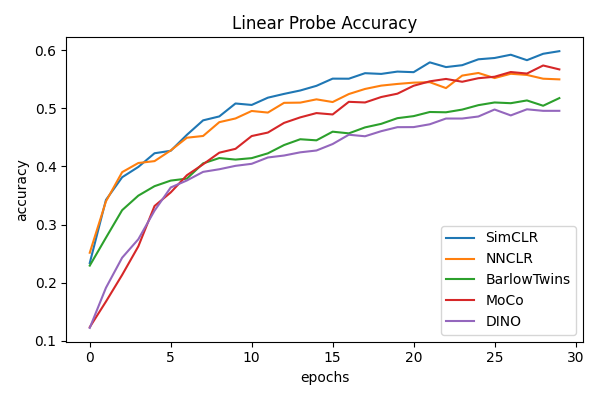
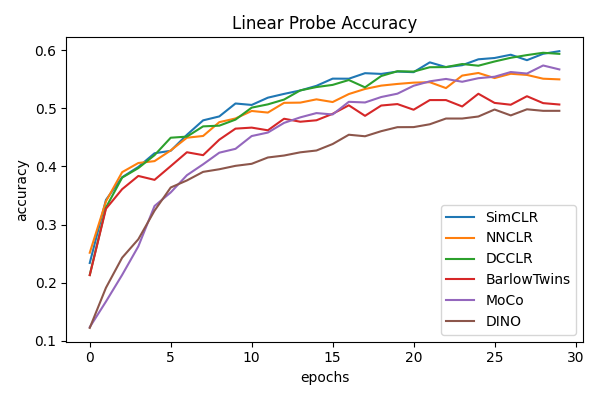
DCCLR added

diff --git a/algorithms.py b/algorithms.py
@@ -122,6 +122,56 @@ class NNCLR(ContrastiveModel):
         return loss
 
 
+class DCCLR(ContrastiveModel):
+    def __init__(
+        self,
+        contrastive_augmenter,
+        classification_augmenter,
+        encoder,
+        projection_head,
+        linear_probe,
+        temperature,
+    ):
+        super().__init__(
+            contrastive_augmenter,
+            classification_augmenter,
+            encoder,
+            projection_head,
+            linear_probe,
+        )
+        self.temperature = temperature
+
+    def contrastive_loss(self, projections_1, projections_2):
+        # a modified InfoNCE loss, which should provide better performance at
+        # lower batch sizes
+
+        # cosine similarity: the dot product of the l2-normalized feature vectors
+        projections_1 = tf.math.l2_normalize(projections_1, axis=1)
+        projections_2 = tf.math.l2_normalize(projections_2, axis=1)
+        similarities = (
+            tf.matmul(projections_1, projections_2, transpose_b=True) / self.temperature
+        )
+
+        # the similarities of the positives (the main diagonal) are masked and
+        # are not included in the softmax normalization
+        batch_size = tf.shape(projections_1)[0]
+        decoupling_mask = 1.0 - tf.eye(batch_size)
+        decoupled_similarities = decoupling_mask * tf.exp(similarities)
+
+        loss = tf.reduce_mean(
+            -tf.linalg.diag_part(similarities)
+            + tf.math.log(
+                tf.reduce_sum(decoupled_similarities, axis=0)
+                + tf.reduce_sum(decoupled_similarities, axis=1)
+            )
+        )
+        # the sum along the two axes should be put in separate log-sum-exp
+        # expressions according to the paper, this however achieves slightly
+        # higher performance at this scale
+
+        return loss
+
+
 class BarlowTwins(ContrastiveModel):
     def __init__(
         self,

diff --git a/train.py b/train.py
@@ -10,7 +10,7 @@ from tensorflow.keras.layers.experimental import preprocessing
 
 from dataset import prepare_dataset
 from augmentations import RandomResizedCrop, RandomColorJitter
-from algorithms import SimCLR, NNCLR, BarlowTwins, MoCo, DINO
+from algorithms import SimCLR, NNCLR, DCCLR, BarlowTwins, MoCo, DINO
 
 tf.get_logger().setLevel("WARN")  # suppress info-level logs
 
@@ -23,6 +23,7 @@ width = 128
 hyperparams = {
     SimCLR: {"temperature": 0.1},
     NNCLR: {"temperature": 0.1, "queue_size": 10000},
+    DCCLR: {"temperature": 0.1},
     BarlowTwins: {"redundancy_reduction_weight": 10.0},
     MoCo: {"momentum_coeff": 0.99, "temperature": 0.1, "queue_size": 10000},
     DINO: {"momentum_coeff": 0.9, "temperature": 0.1, "sharpening": 0.5},

diff --git a/README.md b/README.md
@@ -1,10 +1,11 @@
 # Self-supervised Contrastive Learning for Image Classification with Keras
 
-This repository contains an implementation for 4 self-supervised instance-level (image-level) contrastive learning methods:
+This repository contains an implementation for 6 self-supervised instance-level (image-level) contrastive learning methods:
 - [SimCLR](https://arxiv.org/abs/2002.05709)
-- [MoCo](https://arxiv.org/abs/1911.05722) ([v2](https://arxiv.org/abs/2003.04297), [v3](https://arxiv.org/abs/2104.02057))
-- [BarlowTwins](https://arxiv.org/abs/2103.03230)
 - [NNCLR](https://arxiv.org/abs/2104.14548)
+- [Decoupled Contrastive Learning](https://arxiv.org/abs/2110.06848) (named DCCLR in this repository)
+- [BarlowTwins](https://arxiv.org/abs/2103.03230)
+- [MoCo](https://arxiv.org/abs/1911.05722) ([v2](https://arxiv.org/abs/2003.04297), [v3](https://arxiv.org/abs/2104.02057))
 - [DINO](https://arxiv.org/abs/2104.14294) (negative-free)
 
 Try it out in a Colab Notebook (one training takes 40-60 minutes): [![Open In Colab](https://colab.research.google.com/assets/colab-badge.svg)](https://colab.research.google.com/github/beresandras/contrastive-classification-keras/blob/master/contrastive_classification_keras.ipynb)
